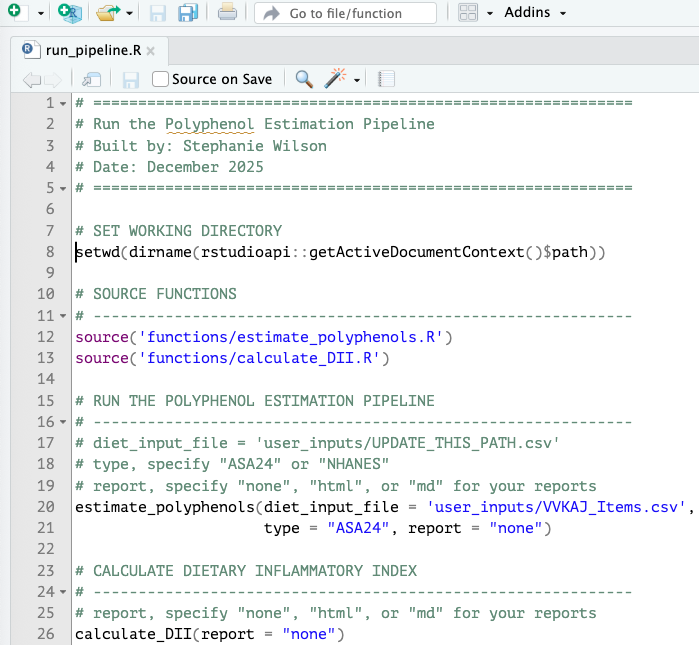
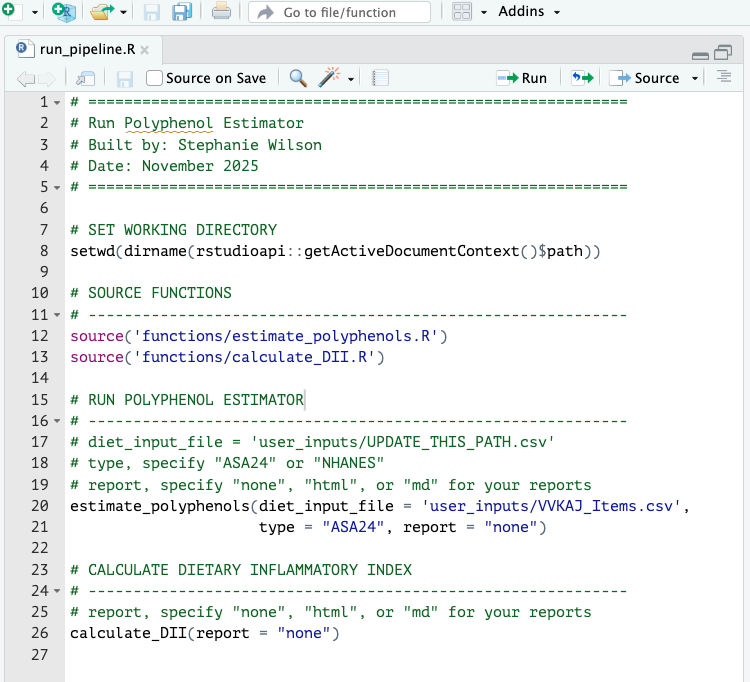
Update language to Polyphenol Estimator
replaces "the pipeline" and "polyphenol estimation pipeline" with "Polyphenol Estimator"

diff --git a/index.md b/index.md
@@ -4,9 +4,9 @@ layout: home
 nav_order: 1
 ---
 
-# Polyphenol Estimation Pipeline
+# Polyphenol Estimator
 
-This start guide shows you how to take your ASA24 or NHANES dietary data and estimate polyphenol intake using the [FooDB](https://foodb.ca/) and calculate the dietary inflammatory index[^1]. Example ASA24 data, borrowed from the DietDiveR Repository[^2], is provided for you to test. Check out [the example file here](https://github.com/SWi1/polyphenol_pipeline/blob/main/user_inputs/VVKAJ_Items.csv) to see the input structure required for the pipeline.
+This start guide shows you how to take your ASA24 or NHANES dietary data and estimate polyphenol intake using the [FooDB](https://foodb.ca/) and calculate the dietary inflammatory index[^1]. Example ASA24 data, borrowed from the DietDiveR Repository[^2], is provided for you to test. Check out [the example file here](https://github.com/SWi1/polyphenol_pipeline/blob/main/user_inputs/VVKAJ_Items.csv) to see the input structure required for Polyphenol Estimator.
 
 ### 1. Download the entire repository directly [here](https://github.com/SWi1/polyphenol_pipeline/archive/refs/heads/main.zip) then unzip the folder. 
 The repository contains files and scripts used in the tutorial.
@@ -18,18 +18,18 @@ The repository contains files and scripts used in the tutorial.
 ![Screenshot of where to update file path.](workflow_images/update_diet_path.png)
 
 ### 4. Run the scripts.
-In our usage case of ASA24 data, we have specified that the input is ASA24 data and that we would not like a report of what happens in each pipeline step. After you've run `estimate_polyphenols`, you can also run `calculate_DII`. Calculation of DII is *optional*. The function automatically detects whether you've run ASA24 or NHANES data, you only need to specify if you would like to see what happens in each script.
+In our usage case of ASA24 data, we have specified that the input is ASA24 data and that we would not like a report of what happens in each step. After you've run `estimate_polyphenols`, you can also run `calculate_DII`. Calculation of DII is *optional*. The function automatically detects whether you've run ASA24 or NHANES data, you only need to specify if you would like to see what happens in each script.
 
 ### 5. Check out the resulting files in your output directory!
 Find a list of expected outputs below:
-- [Polyphenol Estimation Pipeline Outputs](https://swi1.github.io/polyphenol_pipeline/webpages/polyphenol_estimation_pipeline.html#outputs)
+- [Polyphenol Estimator Outputs](https://swi1.github.io/polyphenol_pipeline/webpages/polyphenol_estimator.html#outputs)
 - [DII Calculation Outputs](https://swi1.github.io/polyphenol_pipeline/webpages/DII_calculation.html#outputs)
 
 <details>
 <summary>Reports: See What's in Each Script</summary>
   <ul>
   For every script that was run, a report was generated in the reports folder. 
-  This online tutorial actually shows you what the reports look like if you navigate to pages under "Polyphenol Estimation Pipeline" and "DII Calculation" in your sidebar.
+  This online tutorial actually shows you what the reports look like if you navigate to pages under "Polyphenol Estimator" and "DII Calculation" in your sidebar.
   </ul>
 </details>
 
@@ -37,7 +37,7 @@ Find a list of expected outputs below:
 `estimate_polyphenols` can also be run on NHANES WWEIA data. To generate NHANES WWEIA data, follow the instructions in ["Preparing Diet Data - NHANES diet recalls"](https://swi1.github.io/polyphenol_pipeline/webpages/preparing_diet_data_NHANES.html#prepare-nhanes-diet-recall-data). When you've finished: 
 1. Come back to run_pipeline.R and update `diet_input_file` with the NHANES output file name. 
 2. In `estimate_polyphenols`, change type to "NHANES"
-2. Run the script. 
+3. Run the script. 
 
 [^1]: [Shivapppa et al. 2013. Designing and developing a literature-derived, population-based dietary inflammatory index](10.1017/S1368980013002115)
 [^2]: [DietDiveR Repo](https://computational-nutrition-lab.github.io/DietDiveR/).

diff --git a/webpages/preparing_diet_data_ASA24.md b/webpages/preparing_diet_data_ASA24.md
@@ -9,20 +9,20 @@ has_toc: true
 # Preparing ASA24 Dietary Data
 ## Use demo data
 
-An example ASA24 Items File is provided from [DietDiveR](https://github.com/computational-nutrition-lab/DietDiveR). You can use this to examine the format of the necessary input file and run the pipeline before using your own data.
+An example ASA24 Items File is provided from [DietDiveR](https://github.com/computational-nutrition-lab/DietDiveR). You can use this to examine the format of the necessary input file and run Polyphenol Estimator before using your own data.
 
-**IMPORTANT** - The pipeline expects data files where there is more than one recall per participant (a future update will run with just one recall).
+**IMPORTANT** - Polyphenol Estimator expects data files where there is more than one recall per participant (a future update will run with just one recall).
 
 ## Use your own ASA24 data
 ### 1.  Download the ASA24 Items file from all respondents in your study on the [ASA24 researcher website](https://asa24.nih.gov/researcher/#/login).
 ![Screenshot of downloading data from ASA24 Researcher Website](../workflow_images/ASA24_download.png)
 
 ### 2. Perform dietary quality control checks. 
-  - The pipeline will automatically include people with more than one recall and complete (`RecallStatus`==5).
-  - Any additional dietary quality control checks should be done before running the pipeline. The NIH provides [ASA24 quality control guidelines](https://epi.grants.cancer.gov/asa24/resources/cleaning.html), which covers missing data, text entries, outlier review, and duplicate entries.
+  - Polyphenol Estimator will automatically include people with more than one recall and complete (`RecallStatus`==5).
+  - Any additional dietary quality control checks should be done before running Polyphenol Estimator. The NIH provides [ASA24 quality control guidelines](https://epi.grants.cancer.gov/asa24/resources/cleaning.html), which covers missing data, text entries, outlier review, and duplicate entries.
 
 ### 3. Come back to run_pipeline.R and update `diet_input_file` with your own ASA24 file path.
-  - The pipeline will run the example ASA24 file **unless** you change the input data.
+  - Polyphenol Estimator will run the example ASA24 file **unless** you change the input data.
 
 ### 4. Run the polyphenol estimation pipeline for your ASA24 data. 
-  - Refer to [Start Guide](https://swi1.github.io/polyphenol_pipeline/#polyphenol-estimation-pipeline) for instructions to run the pipeline.
+  - Refer to [Start Guide](https://swi1.github.io/polyphenol_pipeline) for instructions to run Polyphenol Estimator.

diff --git a/webpages/DII_calculation.md b/webpages/DII_calculation.md
@@ -16,10 +16,10 @@ New Components Added to 28 component DII calculation:
 - **Foods**: Garlic, ginger, onion, pepper (spice), tea, turmeric, thyme/oregano
 
 Missing Components
-- **Compounds** - Trans Fats. Obtaining trans fats requires an additional level of mapping to Food Data Central. We are looking to incorporate this component in a future version of this pipeline.
+- **Compounds** - Trans Fats. Obtaining trans fats requires an additional level of mapping to Food Data Central. We are looking to incorporate this component in a future version of Polyphenol Estimator.
 - **Foods** - Saffron and Rosemary. These foods do not have WWEIA food codes and are not present in the [FDA's Food Disaggregation Database](https://pub-connect.foodsafetyrisk.org/fda-fdd/). Thus, they cannot be added at this time.
 
-### Pipeline Steps
+### DII Calculation Steps
 1. **DII_STEP1_Eugenol.Rmd**: This script takes in your disaggregated dietary data and FooDB-linked descriptions to calculate eugenol intake per recall and subject.
 2. **DII_STEP2_Polyphenol_Subclass.Rmd** - This script takes your data that has been mapped to FooDB polyphenol content, extracts compounds categorized under the six required DII subclasses (flavan-3-ols, Flavones, Flavonols, Flavonones, Anthocyanidins, Isoflavones), and calculates the total intake of these subclasses per participant recall. 
 3. **DII_STEP3_Food.Rmd** - This script takes in your disaggregated and FooDB-linked descriptions to calculate intake of 7 specific food categories (onion, ginger, garlic, tea, pepper, turmeric, thyme/oregano).

diff --git a/README.md b/README.md
@@ -1,4 +1,4 @@
-# Polyphenol Estimation Pipeline
+# Polyphenol Estimator
 
 This repository contains scripts to automate the estimation of dietary polyphenol intake and calculation of the dietary inflammatory index from ASA24 or NHANES diet recalls. 
 
@@ -8,11 +8,11 @@ This repository contains scripts to automate the estimation of dietary polypheno
 ## How it Works
 
 <figure>
-  <img src="workflow_images/Polyphenol_Estimation_Pipeline_Overview.png" alt="brief overview of steps in the pipeline" width="500">
+  <img src="workflow_images/Polyphenol_Estimator_Overview.png" alt="brief overview of steps in Polyphenol Estimator" width="500">
 </figure>
 
 ## Get Started
-Want to estimate polyphenols in your dietary data? Please review our start-up guide [here](https://swi1.github.io/polyphenol_pipeline/). If you are new to R and RStudio, you will need to download these free programs first in order to run the pipeline:
+Want to estimate polyphenols in your dietary data? Please review our start-up guide [here](https://swi1.github.io/polyphenol_pipeline/). If you are new to R and RStudio, you will need to download these free programs first in order to run Polyphenol Estimator:
 - **R** - available from [CRAN](https://cran.rstudio.com/)
 - **RStudio** - available from [Posit](https://posit.co/download/rstudio-desktop/)
 

diff --git a/webpages/polyphenol_estimation_pipeline.md b/webpages/polyphenol_estimation_pipeline.md
@@ -1,14 +1,14 @@
 ---
 layout: default
-title: Polyphenol Estimation Pipeline
+title: Polyphenol Estimator
 nav_order: 3
 show_toc: true
 has_children: true
 ---
 
-# Polyphenol Estimation Pipeline
+# Polyphenol Estimator
 
-The polyphenol estimation pipeline takes either ASA24 Items Files or NHANES "Individual Foods" Recall Files. Based on the data type, STEP 1 will differ but STEPS 2 - 6 are the same. For simplicity, STEPS 2 - 6 in this tutorial show the output from the demo ASA24 data. The report for STEP 2 shows summary information about the number of unmapped foods, which will vary between datasets.
+Polyphenol Estimator takes either ASA24 Items Files or NHANES "Individual Foods" Recall Files. Based on the data type, STEP 1 will differ but STEPS 2 - 6 are the same. For simplicity, STEPS 2 - 6 in this tutorial show the output from the demo ASA24 data. The report for STEP 2 shows summary information about the number of unmapped foods, which will vary between datasets.
 
 ### Steps Specific to ASA24
 1. STEP1_ASA24_FDD_Disaggregation.Rmd

diff --git a/webpages/contact.md b/webpages/contact.md
@@ -6,7 +6,7 @@ nav_order: 6
 
 <h2>Contact Us</h2>
 
-<p>Have a question or want to provide feedback on the polyphenol estimation pipeline? Use the form below to get in touch, or create an issue on GitHub (<a href="https://docs.github.com/en/issues/tracking-your-work-with-issues/using-issues/creating-an-issue">more</a>).</p>
+<p>Have a question or want to provide feedback on Polyphenol Estimator? Use the form below to get in touch, or create an issue on GitHub (<a href="https://docs.github.com/en/issues/tracking-your-work-with-issues/using-issues/creating-an-issue">more</a>).</p>
 
 
 <style>

diff --git a/webpages/DII_STEP4_DII_Calculation.md b/webpages/DII_STEP4_DII_Calculation.md
@@ -37,8 +37,7 @@ subclasses, and 7 additional food groups (10 possible).
 #### INPUTS
 
 - **Recall_total_nutrients.csv**: Total nutrient intakes for unique
-  participant and recall combination. Generated from step 1 of the
-  polyphenol estimation pipeline.
+  participant and recall combination. Generated from step 1 of Polyphenol Estimator.
 - **Recall_FooDB_DII_eugenol_by_recall.csv**: Sum eugenol intake for
   each participant recall
 - **Recall_FooDB_DII_subclass_by_recall.csv**: Sum of 6 DII polyphenol

diff --git a/webpages/preparing_diet_data_NHANES.md b/webpages/preparing_diet_data_NHANES.md
@@ -18,7 +18,7 @@ has_toc: true
 ## Prepare NHANES diet recall data
 
 This is a tutorial to help users access NHANES dietary data for
-downstream utilization in the polyphenol estimation pipeline. The R
+downstream utilization in Polyphenol Estimator. The R
 scripts below walk you through how to directly download one cycle of
 NHANES dietary data from the CDC website and perform several diet
 cleaning steps. Users can directly download this code

diff --git a/webpages/cite.md b/webpages/cite.md
@@ -5,4 +5,4 @@ nav_order: 5
 ---
 
 ## Cite Us
-We are currently working on a manuscript describing the polyphenol estimation pipeline. Please [contact us](https://swi1.github.io/polyphenol_pipeline/webpages/contact.html) to stay updated.
+We are currently working on a manuscript describing Polyphenol Estimator. Please [contact us](https://swi1.github.io/polyphenol_pipeline/webpages/contact.html) to stay updated.

diff --git a/webpages/preparing_diet_data.md b/webpages/preparing_diet_data.md
@@ -6,4 +6,4 @@ show_toc: true
 ---
 
 # Preparing Dietary Data
-The polyphenol estimation pipeline can work from ASA24 Items Files and NHANES "Individual Foods" Recall Files. Read on for how you can prepare your own ASA24 or NHANES data for the pipeline.
+Polyphenol Estimator can work from ASA24 Items Files and NHANES "Individual Foods" Recall Files. Read on for how you can prepare your own ASA24 or NHANES data.

diff --git a/webpages/DII_STEP1_Eugenol.md b/webpages/DII_STEP1_Eugenol.md
@@ -21,8 +21,7 @@ descriptions to calculate eugenol intake per recall and subject.
 #### INPUTS
 
 - **Recall_Disaggregated_mapped.csv.bz2** - Disaggregated dietary data,
-  mapped to FooDB foods, From Step 2 of the polyphenol estimation
-  pipeline
+  mapped to FooDB foods, From Step 2 of Polyphenol Estimator
 - **FooDB_Eugenol_Content_Final.csv** - Eugenol Content for foods in
   FooDB, Provided File
 

diff --git a/webpages/DII_STEP3_Food.md b/webpages/DII_STEP3_Food.md
@@ -24,8 +24,7 @@ tea, pepper, turmeric, thyme/oregano).
 #### INPUTS
 
 - **Recall_Disaggregated_mapped.csv.bz2** - Disaggregated dietary data,
-  mapped to FooDB foods, From Step 2 of the polyphenol estimation
-  pipeline
+  mapped to FooDB foods, From Step 2 of Polyphenol Estimator
 - **FDA-FDD V3.1** - All of FDA FDD descriptions
 
 #### OUTPUTS
